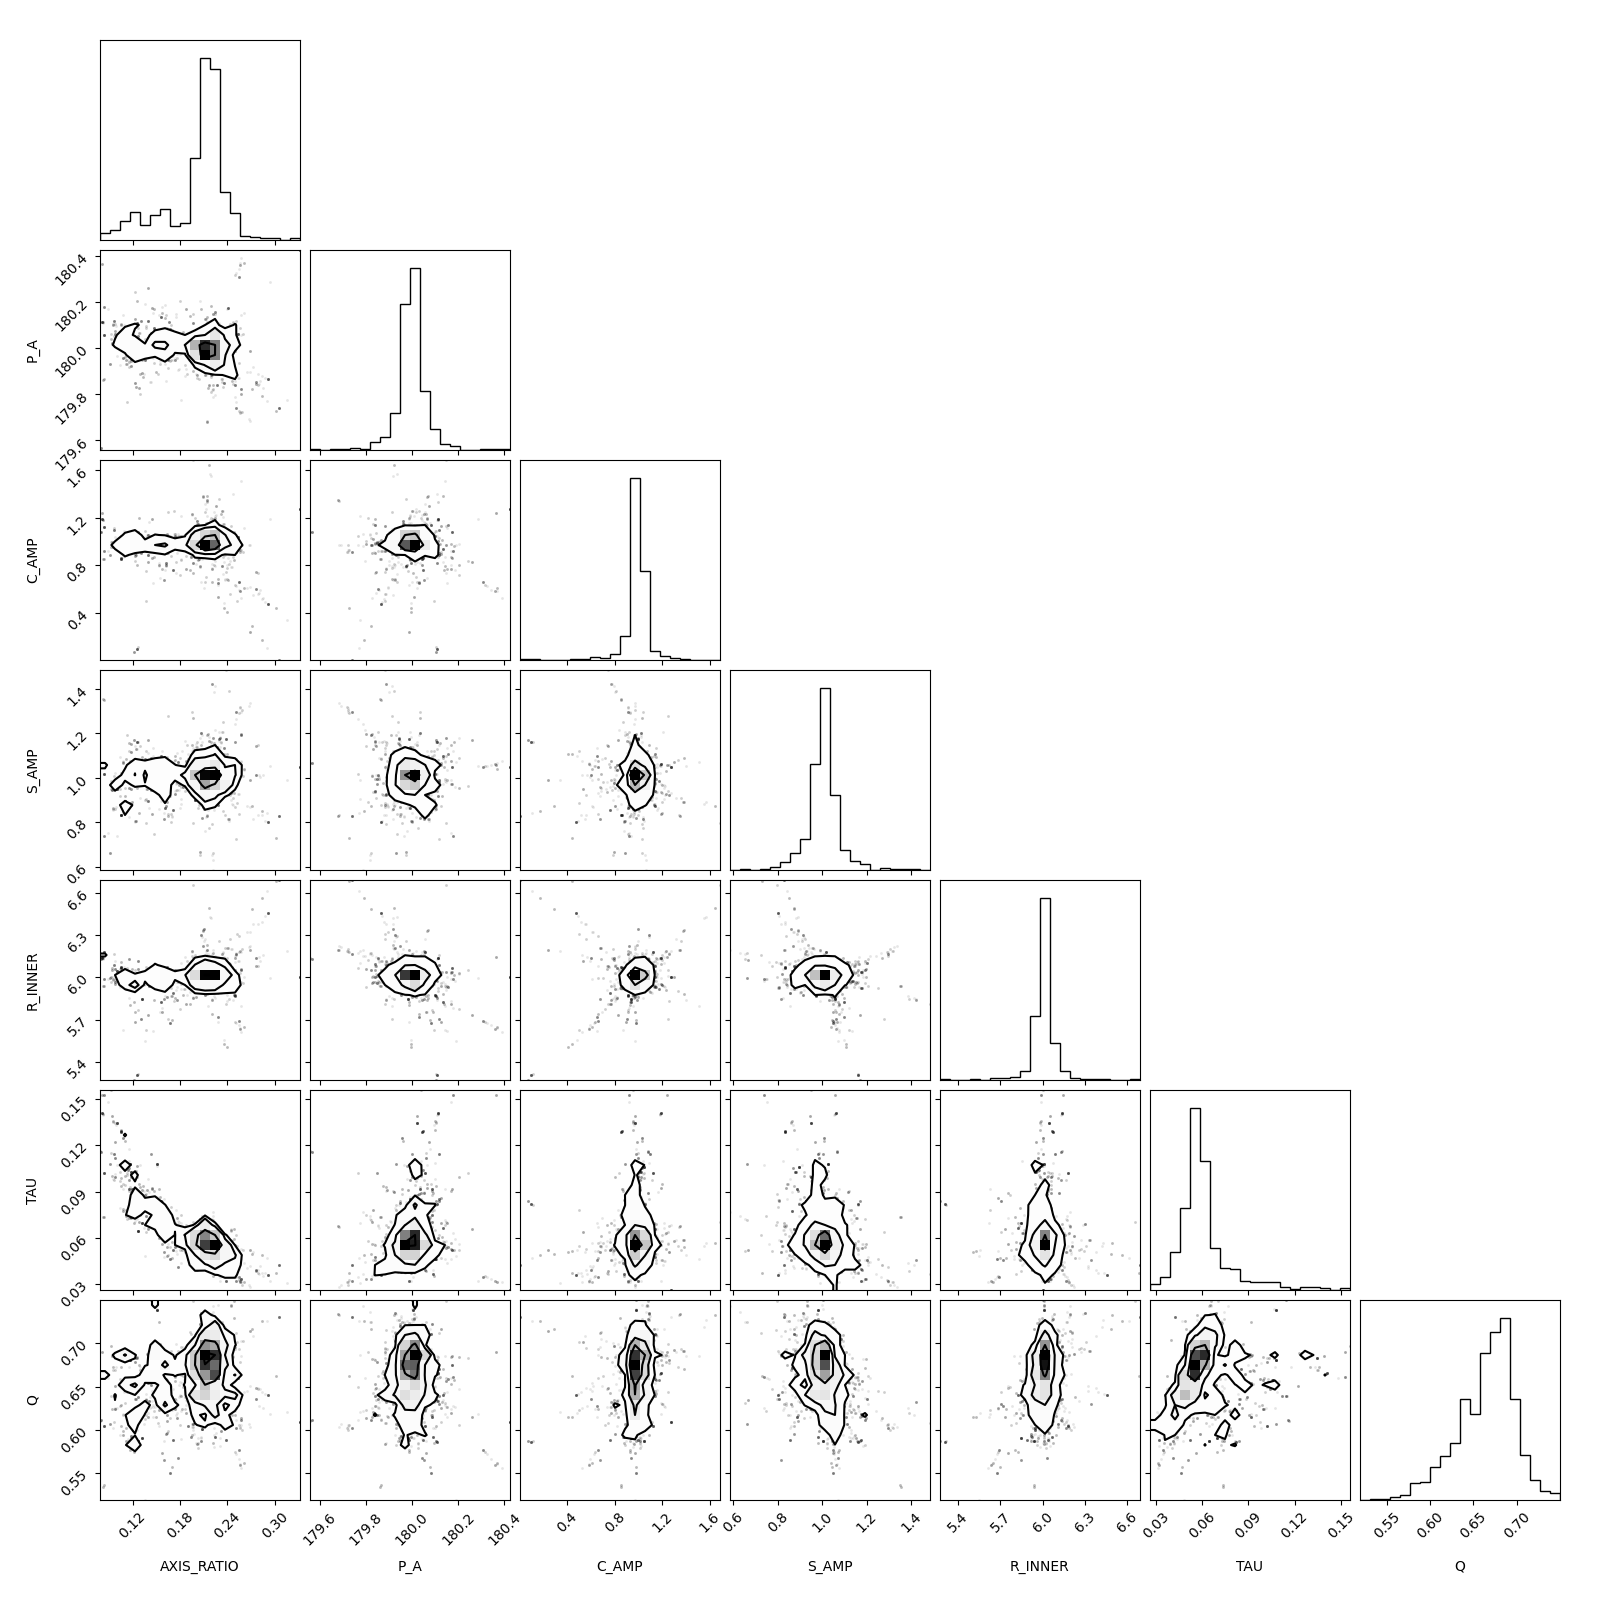
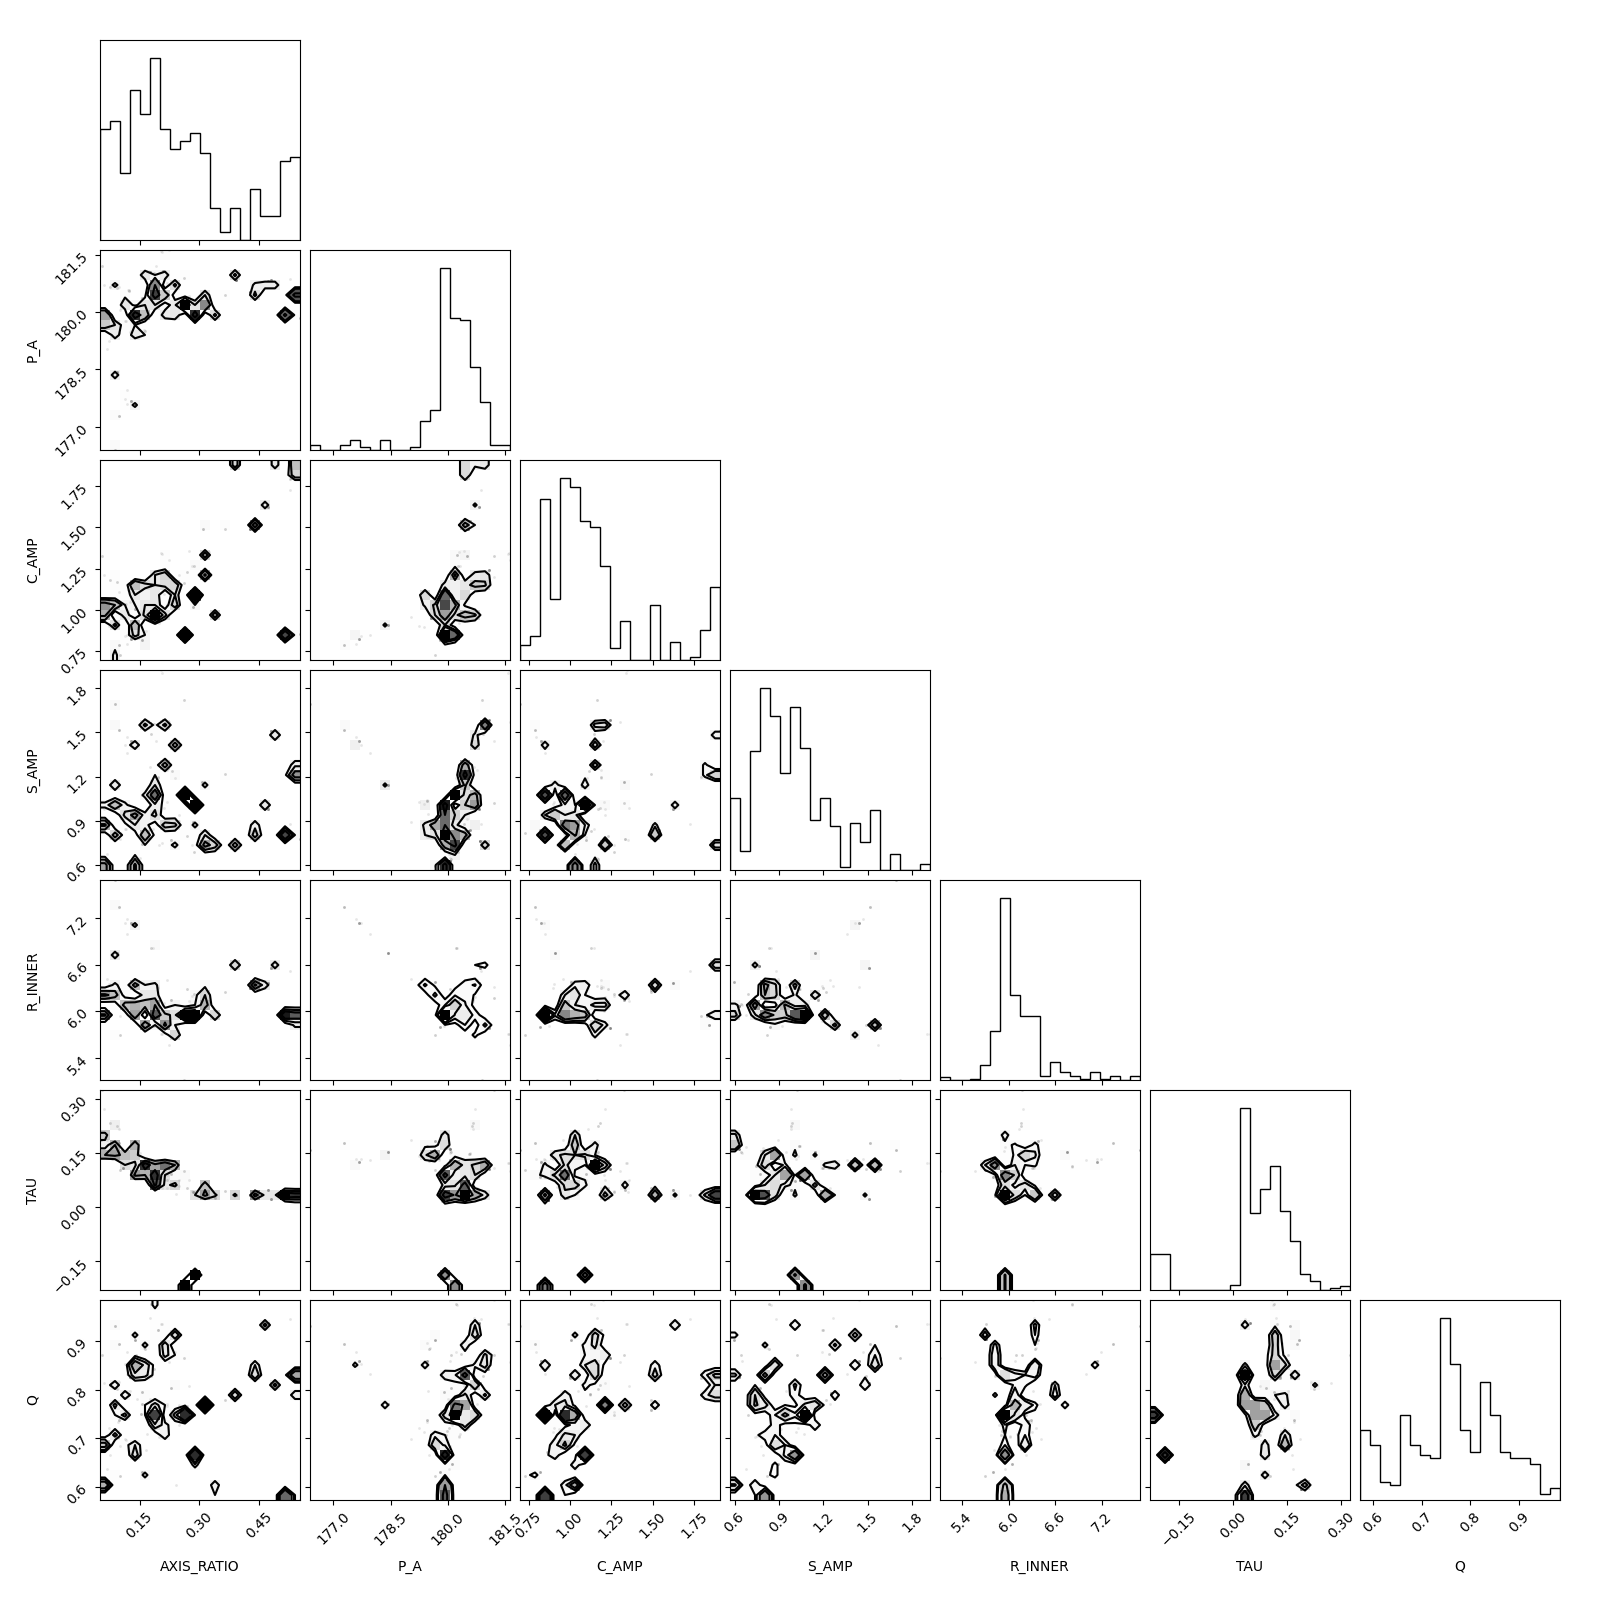
Change 'mcmc.py'
Implementing scipy optimisation for initial parameters

diff --git a/ppdmodler/src/functionality/mcmc.py b/ppdmodler/src/functionality/mcmc.py
@@ -11,7 +11,7 @@ import corner
 import matplotlib.pyplot as plt
 
 from pathlib import Path
-
+from scipy import optimize
 from typing import Any, Dict, List, Union, Optional
 
 from src.models import Gauss2D, Ring, InclinedDisk, CompoundModel
@@ -133,8 +133,8 @@ def set_mc_params(initial: np.ndarray, nwalkers: int,
         A tuple that contains (p0, nwalkers, ndim, niter_burn, niter)
     """
     ndim = len(initial)
-    p0 = [np.array(initial) + 1e-2*np.random.randn(ndim) for i in range(nwalkers)]
-    return (p0, nwalkers, ndim, niter_burn, niter)
+    # p0 = [np.array(initial) + 1e-2*np.random.randn(ndim) for i in range(nwalkers)]
+    return (initial, nwalkers, ndim, niter_burn, niter)
 
 
 class MCMC:
@@ -147,9 +147,9 @@ class MCMC:
         self.priors, self.labels = priors, labels
         self.bb_params = bb_params
 
-        self.p0, self.nw, self.nd, self.nib, self.ni = mc_params
         self.numerical, self.vis, self.vis2 = numerical, vis, not vis
         self.modulation = modulation
+
         self.fr_scaling = 0
 
         self.data, self.pixel_size, self.sampling,self.wavelength,\
@@ -159,18 +159,22 @@ class MCMC:
         self.realdata, self.realdataerr,\
                 self.realcphase, self.realcphaserr = self.data
 
-        self.model = model(*self.bb_params, self.wavelength)
-
         self.realdata = np.insert(self.realdata, 0, self.realflux)
         self.realdataerr = np.insert(self.realdataerr, 0, np.mean(self.realdataerr))
 
         self.sigma2corrflux = self.realdataerr**2
         self.sigma2cphase = self.realcphaserr**2
 
+        self.model = model(*self.bb_params, self.wavelength)
+
+        self.initial, self.nw, self.nd, self.nib, self.ni = mc_params
+        self.p0_full = self.optimise_inital_theta()
+        self.p0 = self.p0_full.x
+        print(self.p0)
+
         self.realbaselines = np.insert(np.sqrt(self.u**2+self.v**2), 0, 0.)
         self.u_t3phi, self.v_t3phi = self.t3phi_uvcoords
         self.t3phi_baselines = np.sqrt(self.u_t3phi**2+self.v_t3phi**2)
-        print(self.t3phi_baselines)
 
         self.out_path = out_path
 
@@ -189,6 +193,10 @@ class MCMC:
 
         # This saves the best-fit model data and the real data
         # self.dump2yaml()
+
+    def optimise_inital_theta(self):
+        """Run a scipy optimisation on the initial values to get theta"""
+        return optimize.minimize(self.lnlike, x0=self.initial)
 
     def do_fit(self) -> np.array:
         """The main pipline that executes the combined mcmc code and fits the
@@ -275,10 +283,7 @@ class MCMC:
             else:
                 check_conditons.append(False)
 
-        if all(check_conditons):
-            return 0.0
-        else:
-            return -np.inf
+        return 0.0 if all(check_conditons) else -np.inf
 
     def model4fit_numerical(self, tau, q, theta: np.ndarray) -> np.ndarray:
         """The model image, that is fourier transformed for the fitting process"""
@@ -428,16 +433,17 @@ if __name__ == "__main__":
     bb_params = [1500, 7900, 19, 140]
 
     # File to read data from
-    f = "../../assets/Final_CAL.fits"
+    # f = "../../assets/Final_CAL.fits"
+    f = "../../assets/HD_142666_2019-05-14T05_28_03_N_TARGET_FINALCAL_INT.fits"
     out_path = "../../assets"
     flux_file = "../../assets/HD_142666_timmi2.txt"
 
     # Set the data, the wavelength has to be the fourth argument [3]
     data = set_data(fits_file=f, flux_file=flux_file, pixel_size=100,
-                    sampling=257, wl_ind=30, zero_padding_order=2)
+                    sampling=129, wl_ind=50, zero_padding_order=3)
 
     # Set the mcmc parameters and the data to be fitted.
-    mc_params = set_mc_params(initial=initial, nwalkers=500, niter_burn=20,
+    mc_params = set_mc_params(initial=initial, nwalkers=20, niter_burn=20,
                               niter=20)
 
     # This calls the MCMC fitting
